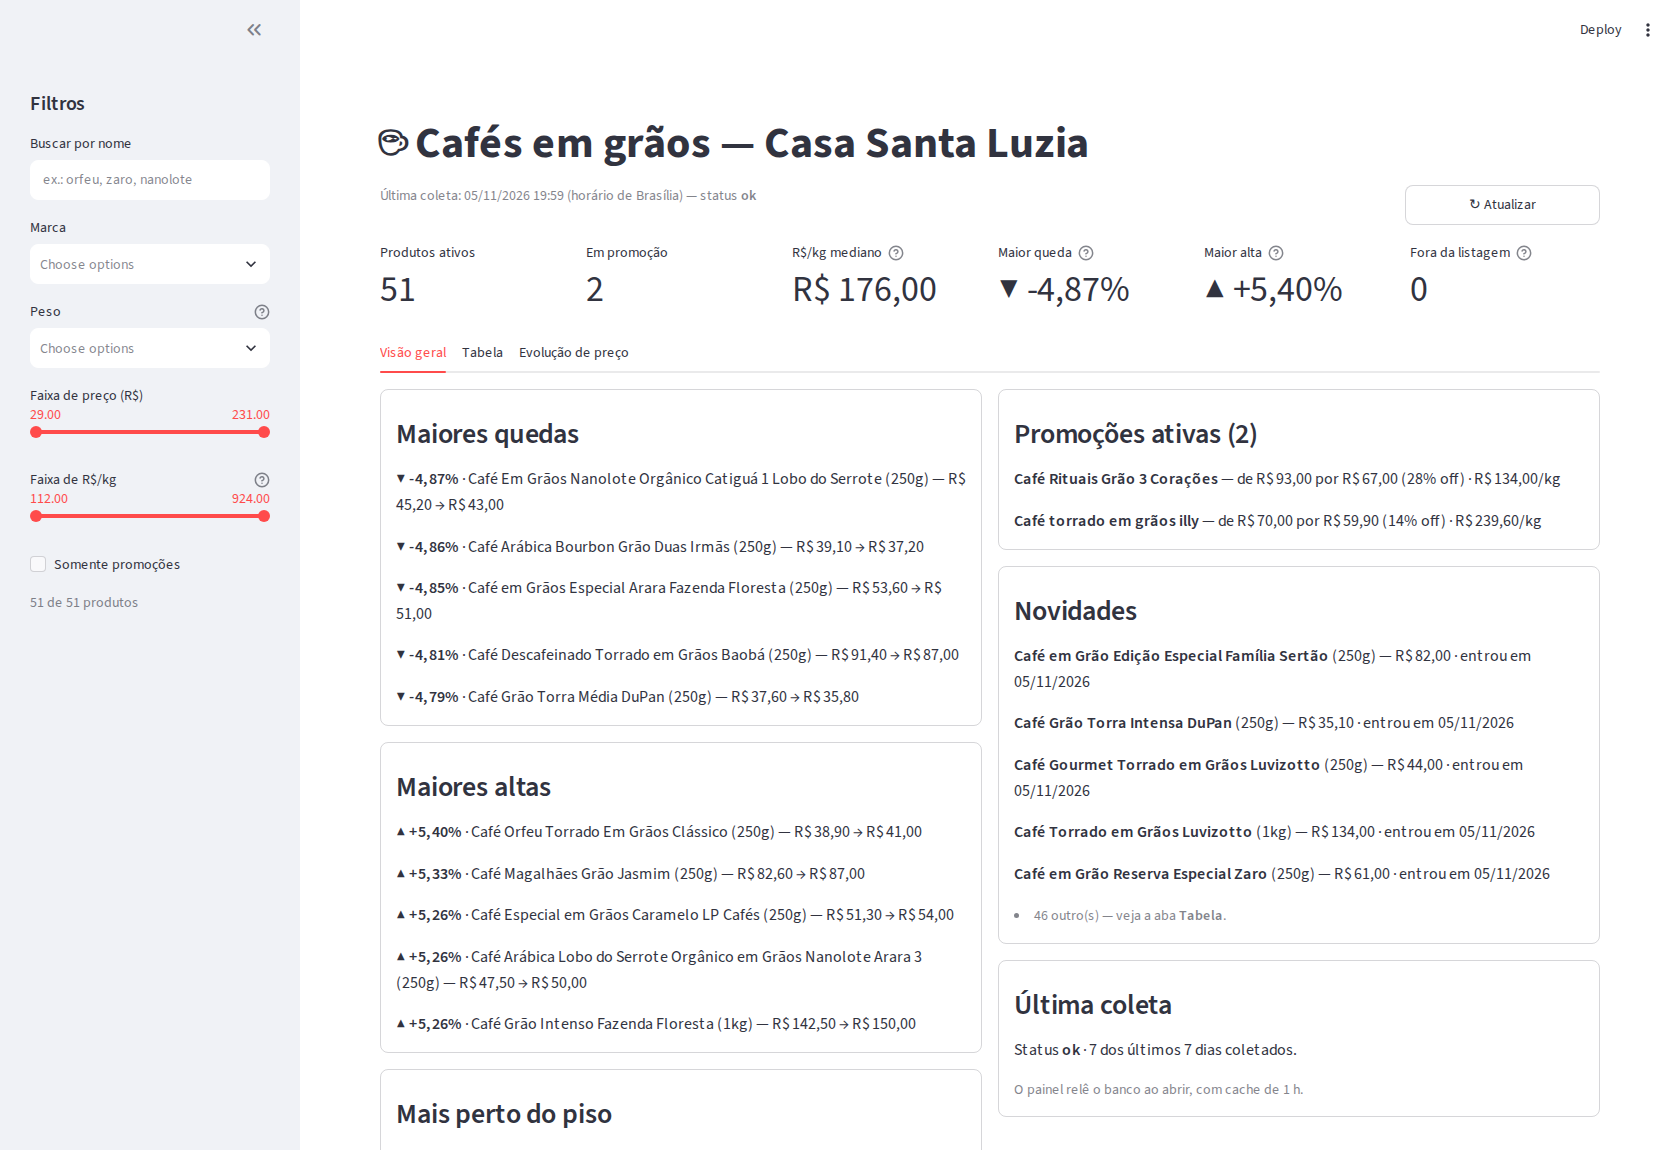
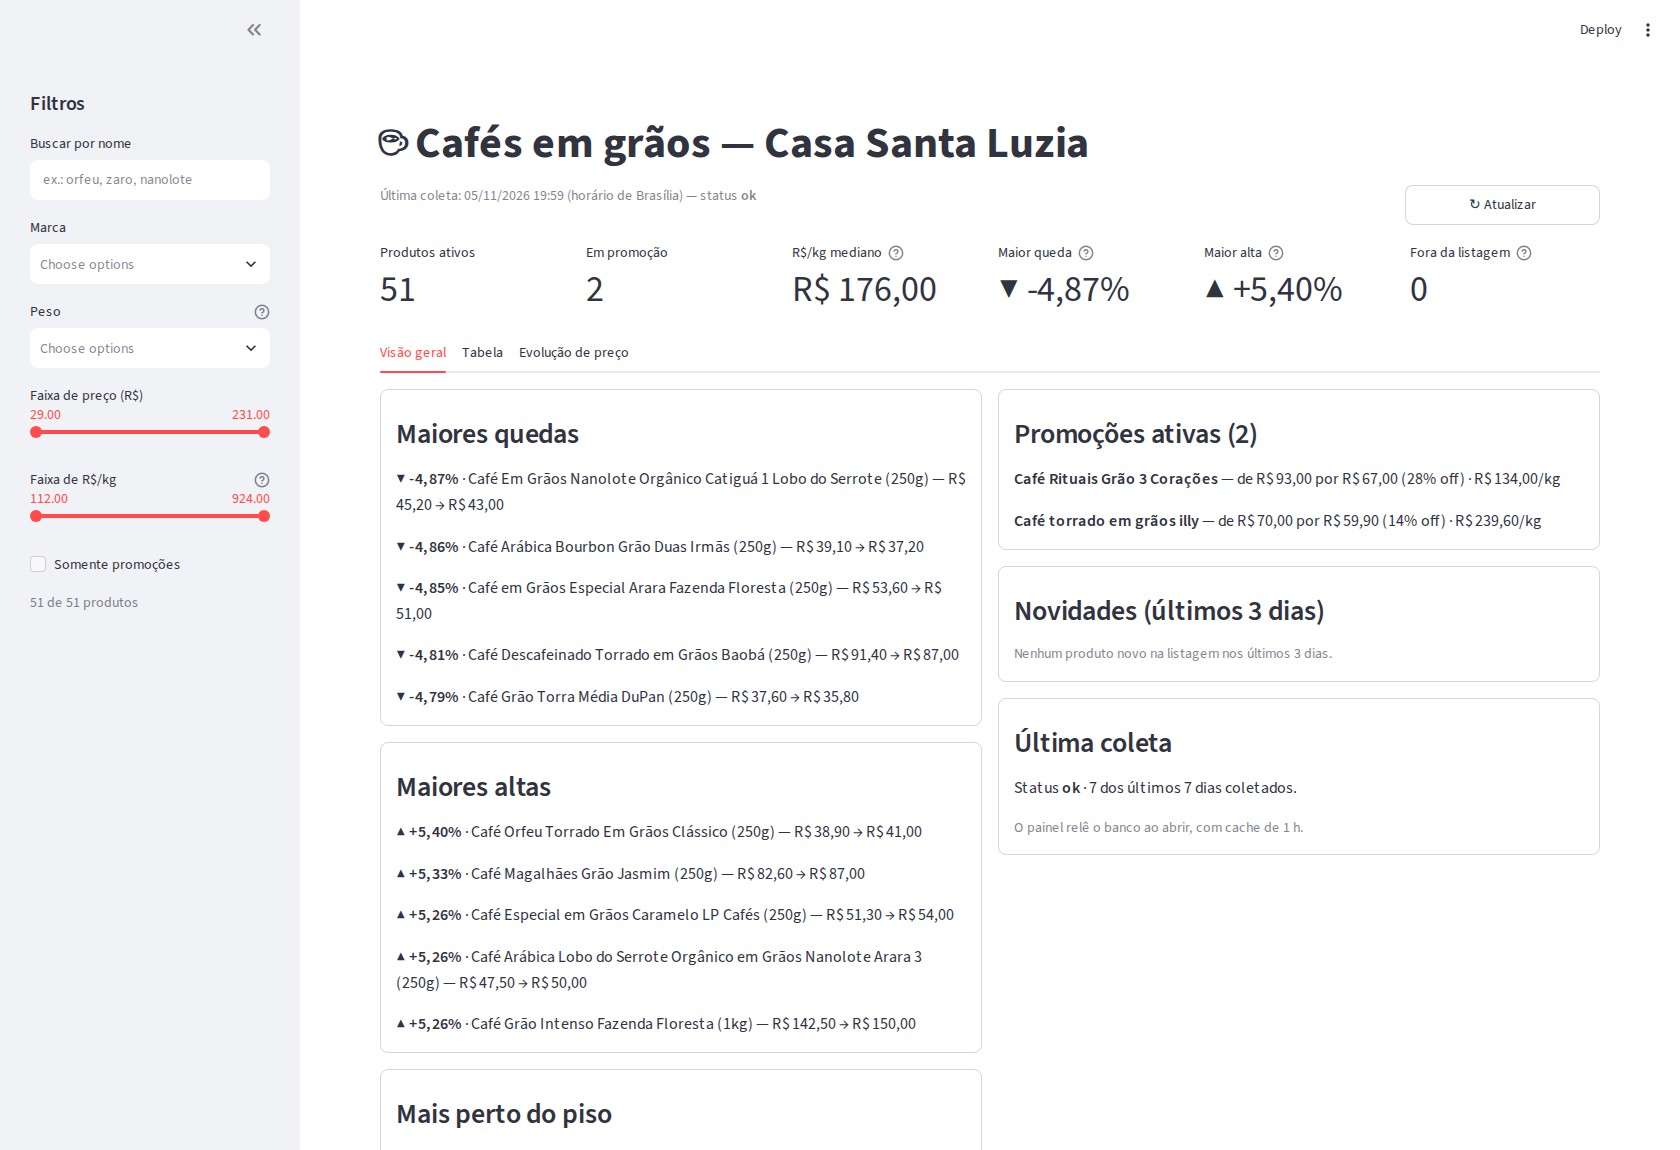
feat: novidades passa a significar primeira aparicao nos ultimos 3 dias
- criterio trocado de produtos.criado_em para MIN(precos.data_coleta) (primeira_visao, calculado na CTE): numa migracao todos os produtos nascem no mesmo dia e o card listava o catalogo inteiro
- janela de 7 -> 3 dias
- card mostra 'apareceu em dd/mm' e o vazio explica a janela
- testes: regressao do caso de migracao + janela de 3 vs 7 dias
- README: captura da visao geral regerada (sem o card ruidoso)

diff --git a/dashboard/dados.py b/dashboard/dados.py
@@ -40,7 +40,10 @@ WITH historico AS (
            LAG(data_coleta) OVER (PARTITION BY produto_id ORDER BY data_coleta) AS data_anterior,
            -- piso histórico: MIN() na CTE, ANTES do filtro posicao = 1.
            -- Depois do filtro cada produto teria uma linha só e o piso seria o preço de hoje.
-           MIN(preco) OVER (PARTITION BY produto_id) AS preco_piso
+           MIN(preco) OVER (PARTITION BY produto_id) AS preco_piso,
+           -- primeira aparição do produto: é o que define "novidade" no painel.
+           -- `criado_em` não serve: numa migração todos nascem no mesmo dia.
+           MIN(data_coleta) OVER (PARTITION BY produto_id) AS primeira_visao
     FROM precos
 )
 SELECT p.id            AS produto_id,
@@ -56,7 +59,8 @@ SELECT p.id            AS produto_id,
        h.data_coleta      AS data_coleta,
        h.preco_anterior   AS preco_anterior,
        h.data_anterior    AS data_anterior,
-       h.preco_piso       AS preco_piso
+       h.preco_piso       AS preco_piso,
+       h.primeira_visao   AS primeira_visao
 FROM historico h
 JOIN produtos p ON p.id = h.produto_id
 WHERE h.posicao = 1
@@ -241,6 +245,7 @@ def carregar_produtos(engine: Engine | None = None) -> pd.DataFrame:
     df["atualizado_em"] = _localizar(df["data_coleta"])
     df["visto_em"] = _localizar(df["ultima_visao"])
     df["criado_em"] = _localizar(df["criado_em"])
+    df["primeira_visao"] = _localizar(df["primeira_visao"])
     return df
 
 
@@ -312,12 +317,15 @@ def dias_com_coleta_ok(coletas: pd.DataFrame, janela: int = 7) -> int:
     return int(ok[ok["iniciada_local"].dt.date >= corte]["iniciada_local"].dt.date.nunique())
 
 
-def cards(produtos: pd.DataFrame, *, top: int = 5, dias_novos: int = 7) -> dict[str, pd.DataFrame]:
+def cards(produtos: pd.DataFrame, *, top: int = 5, dias_novos: int = 3) -> dict[str, pd.DataFrame]:
     """Blocos da visão geral: cada chave é um DataFrame pronto para virar card.
 
     Vive aqui (e não no `app.py`) para ser testável — a mesma razão de `filtrar`.
-    "Novidades" usa a data da coleta mais recente como referência de "hoje": o
-    relógio do servidor não serve, porque a série pode estar parada há dias.
+
+    "Novidades" = produto cuja **primeira aparição** (`MIN(preco.data_coleta)`,
+    exposta como `primeira_visao`) caiu nos últimos `dias_novos` dias, contados a
+    partir da coleta mais recente. Não usamos `criado_em` porque numa migração
+    todos os produtos nascem no mesmo dia e o card listaria o catálogo inteiro.
     """
     if produtos.empty:
         vazio = produtos
@@ -327,7 +335,7 @@ def cards(produtos: pd.DataFrame, *, top: int = 5, dias_novos: int = 7) -> dict[
     com_variacao = ativos[ativos["variacao_pct"].notna()]
 
     novidades = ativos.iloc[0:0]
-    if "criado_em" in ativos and ativos["criado_em"].notna().any():
+    if "primeira_visao" in ativos and ativos["primeira_visao"].notna().any():
         # referência de "hoje" = coleta mais recente (já em Brasília); o
         # data_coleta cru vem do banco como texto, por isso não serve direto
         referencia = (
@@ -335,7 +343,9 @@ def cards(produtos: pd.DataFrame, *, top: int = 5, dias_novos: int = 7) -> dict[
             else pd.to_datetime(ativos["data_coleta"], utc=True).max()
         )
         corte = referencia - pd.Timedelta(days=dias_novos)
-        novidades = ativos[ativos["criado_em"] >= corte].sort_values("criado_em", ascending=False)
+        novidades = ativos[ativos["primeira_visao"] >= corte].sort_values(
+            "primeira_visao", ascending=False
+        )
 
     return {
         "quedas": com_variacao[com_variacao["variacao_pct"] < 0].nsmallest(top, "variacao_pct"),

diff --git a/tests/test_dashboard_dados.py b/tests/test_dashboard_dados.py
@@ -363,25 +363,54 @@ def test_cards_promocoes_so_com_preco_de_lista(banco):
     assert (promocoes["preco_original"] > promocoes["preco"]).all()
 
 
-def test_cards_novidades_respeita_a_janela(banco):
-    """Catálogo antigo não gera novidade; produto criado agora, sim.
+def test_cards_novidades_usa_a_primeira_aparicao(engine, cards):
+    """Novidade = produto cuja **primeira aparição** caiu nos últimos 3 dias.
 
-    Observação: num catálogo recém-migrado todos os produtos têm `criado_em` da
-    mesma semana, então todos aparecem como novidade pelos primeiros 7 dias —
-    é literalmente verdade, só ruidoso nesse arranque.
+    Regressão do caso de migração: todos os produtos entram no banco no mesmo
+    dia, então `criado_em` é recente para o catálogo inteiro. Se o card usasse
+    `criado_em`, os 51 apareceriam como "novos" (era o comportamento anterior).
     """
-    df = dados.carregar_produtos(banco)
-    agora = df["atualizado_em"].max()
+    urls = list(cards)
+    antiga = datetime(2026, 10, 25, 20, 0, tzinfo=timezone.utc)
+    hoje = datetime(2026, 11, 5, 20, 0, tzinfo=timezone.utc)
+    veteranos = {u: cards[u] for u in urls[:50]}
+    novo = {urls[50]: cards[urls[50]]}
+    nome_novo = cards[urls[50]]["nome"]
 
-    antigos = df.copy()
-    antigos["criado_em"] = agora - pd.Timedelta(days=30)
-    assert dados.cards(antigos)["novidades"].empty
+    with Session(engine) as sessao:
+        persistencia.persistir(sessao, veteranos, antiga)
+        sessao.commit()
+        persistencia.persistir(sessao, {**veteranos, **novo}, hoje)
+        sessao.commit()
+        persistencia.registrar_coleta(sessao, iniciada_em=hoje, status="ok")
 
-    recentes = antigos.copy()
-    recentes.loc[recentes.index[:2], "criado_em"] = agora
-    novidades = dados.cards(recentes)["novidades"]
-    assert len(novidades) == 2
-    assert novidades["criado_em"].is_monotonic_decreasing
+    df = dados.carregar_produtos(engine)
+    novidades = dados.cards(df)["novidades"]
+
+    assert len(novidades) == 1, "só o produto que apareceu agora é novidade"
+    assert novidades["nome"].iloc[0] == nome_novo
+    assert novidades["primeira_visao"].iloc[0].date() == hoje.date()
+
+    veteranos_df = df[df["nome"] != nome_novo]
+    assert not novidades["produto_id"].isin(veteranos_df["produto_id"]).any()
+    # o catálogo antigo tem `criado_em` recente e mesmo assim fica fora
+    assert (df["criado_em"] >= df["atualizado_em"].max() - pd.Timedelta(days=3)).all()
+
+
+def test_cards_novidades_janela_de_tres_dias(engine, cards):
+    """Produto que já aparecia há 4 dias não é novidade — mas ainda é, com janela de 7."""
+    inicio = datetime(2026, 11, 1, 20, 0, tzinfo=timezone.utc)
+    hoje = datetime(2026, 11, 5, 20, 0, tzinfo=timezone.utc)
+
+    with Session(engine) as sessao:
+        persistencia.persistir(sessao, cards, inicio)   # catálogo já existia em 01/11
+        sessao.commit()
+        persistencia.persistir(sessao, cards, hoje)
+        sessao.commit()
+
+    df = dados.carregar_produtos(engine)
+    assert dados.cards(df)["novidades"].empty, "primeira aparição há 4 dias sai da janela de 3"
+    assert len(dados.cards(df, dias_novos=7)["novidades"]) == len(df)
 
 
 def test_dias_com_coleta_ok_conta_dias_distintos(banco):

diff --git a/dashboard/app.py b/dashboard/app.py
@@ -310,11 +310,11 @@ def visao_geral(coletas: pd.DataFrame, resumo: dict, blocos: dict[str, pd.DataFr
             "Nenhum produto com preço de lista acima do preço atual.",
         )
         _card(
-            "Novidades",
+            "Novidades (últimos 3 dias)",
             [f"**{l['nome']}** ({dados.formatar_peso(l['peso_g'])}) — "
-             f"{dados.formatar_brl_md(l['preco'])} · entrou em {l['criado_em']:%d/%m/%Y}"
+             f"{dados.formatar_brl_md(l['preco'])} · apareceu em {l['primeira_visao']:%d/%m/%Y}"
              for _, l in blocos["novidades"].iterrows()],
-            "Nenhum produto novo na listagem nos últimos dias.",
+            "Nenhum produto novo na listagem nos últimos 3 dias.",
         )
         with st.container(border=True):
             st.subheader("Última coleta")

diff --git a/AGENTS.md b/AGENTS.md
@@ -386,7 +386,7 @@ on:
   (`test_dashboard_nao_escreve`).
 - **Layout em três abas:** **Visão geral** (home: os seis cards), **Tabela** e **Evolução de preço**. Os KPIs (ativos, promoções, R$/kg mediano, maior queda, maior alta, fora da listagem) ficam na barra fixa, visíveis em todas as abas. Os cards e os KPIs olham o **catálogo inteiro**; a sidebar filtra apenas Tabela e Evolução — a home responde "como está a categoria hoje?", não "como está o meu recorte".
 - Filtros na sidebar: peso, marca, faixa de preço, faixa de R$/kg, "somente promoção" e busca por nome (texto literal, sem regex). A lógica vive em `dados.filtrar` para ser testável. Produto **sem peso** continua visível (R$/kg em branco) — valor desconhecido nunca é tratado como "fora da faixa", e `dados.formatar_peso` é o único formatador de peso (evita `nang`).
-- **Visão geral (home):** seis cards — maiores quedas, maiores altas, mais perto do piso (produtos a 0% do menor preço já registrado), promoções ativas, novidades (`produtos.criado_em` dentro de 7 dias da última coleta) e situação da última coleta. Cada card corta em 5 linhas e aponta para a aba Tabela. A lógica vive em `dados.cards`, testável sem Streamlit.
+- **Visão geral (home):** seis cards — maiores quedas, maiores altas, mais perto do piso (produtos a 0% do menor preço já registrado), promoções ativas, novidades (**primeira aparição** — `MIN(precos.data_coleta)` — nos últimos 3 dias) e situação da última coleta. Cada card corta em 5 linhas e aponta para a aba Tabela. A lógica vive em `dados.cards`, testável sem Streamlit. "Novidade" não usa `produtos.criado_em`: numa migração todos os produtos nascem no mesmo dia e o card listaria o catálogo inteiro.
 - Tabela principal (apenas produtos na listagem; os inativos ficam no banco, com histórico): nome, marca, peso, preço atual, **preço por kg** (`preco / peso_g * 1000`), variação % contra a coleta anterior (▲/▼ com cor), **"Acima do piso"** (quanto o preço está acima do menor preço já registrado do produto) e badge de promoção. Ordenação por um dropdown (Variação, Preço, R$/kg, Peso, Nome) + seletor ascendente/descendente. As promoções não são repetidas aqui: são um card da home.
 - Gráfico de linha: evolução do preço de **um produto por vez**, com granularidade escolhida (dia, semana ou mês) e agregação pela média do período. O selectbox usa `dados.opcoes_produto` (rótulo único — há homônimos na listagem) e busca o histórico pelo `produto_id`. Usa a **última coleta de cada dia** (`dados.ultima_por_dia`) — no histórico antigo isso é a das 20h; as coletas das 08h ficam no banco mas não entram no gráfico. A agregação vive em `dados.agregar_periodo`.
 - Evolução de preço: linha de **um produto por vez**, granularidade dia/semana/mês.
